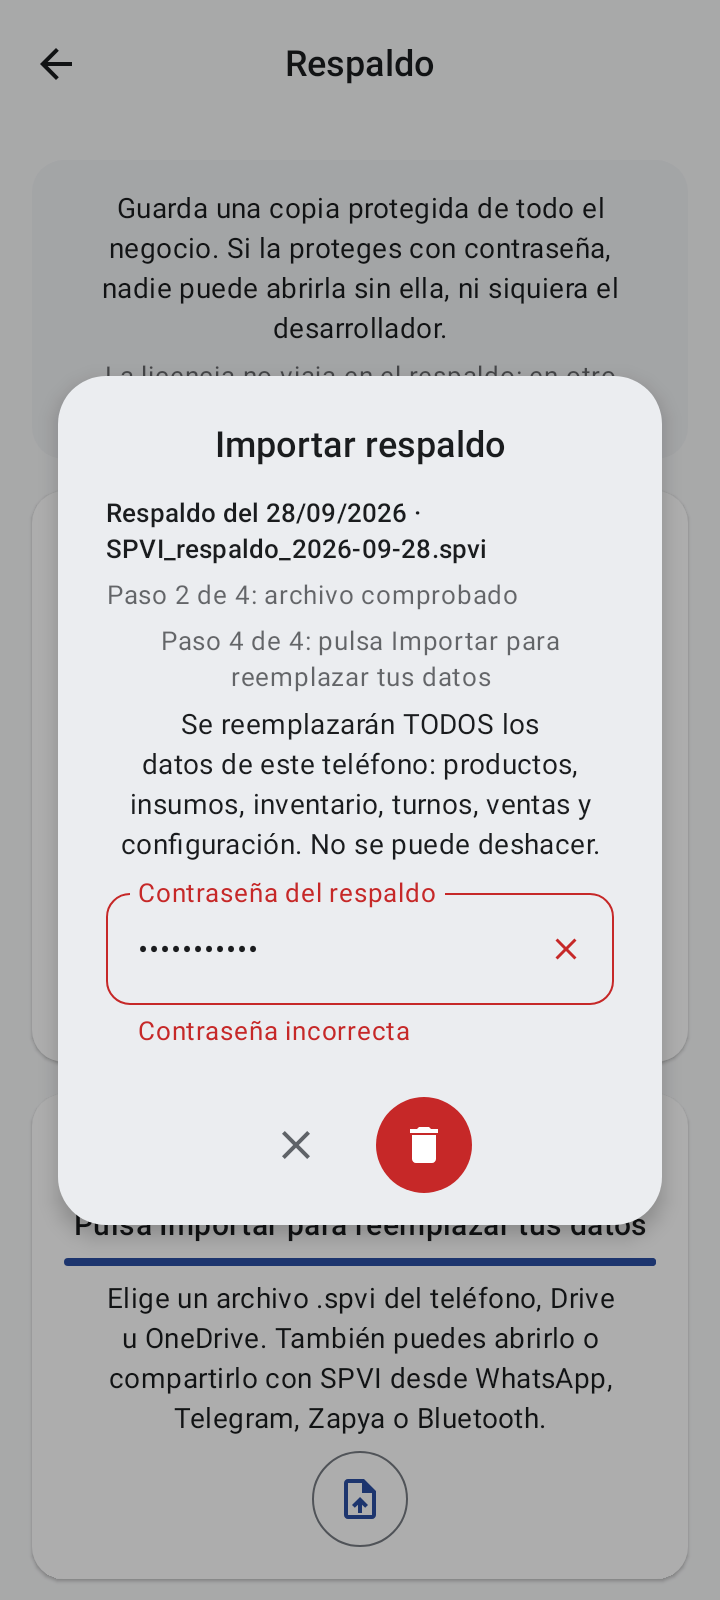
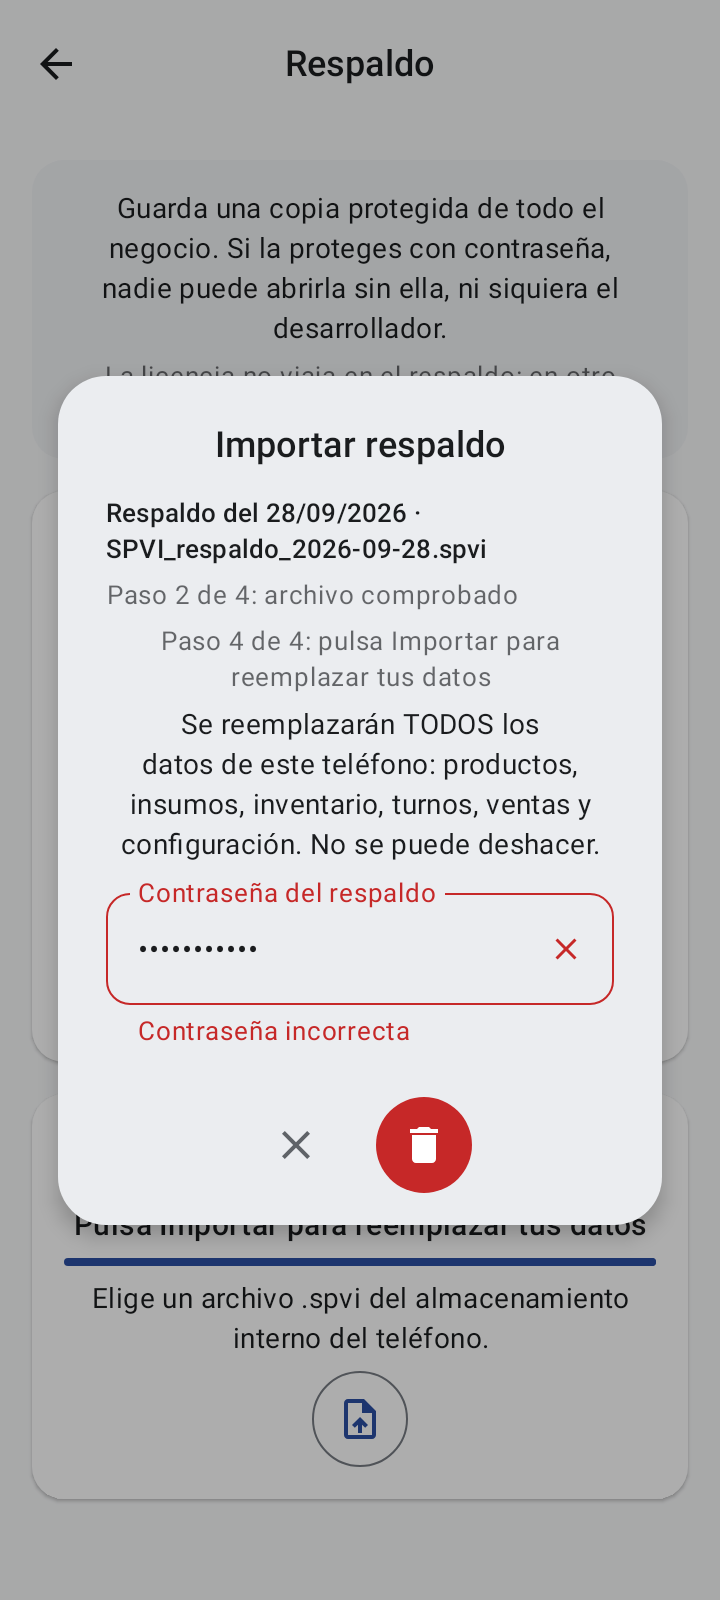
w

Changed region(s): [[0.1528, 0.7812, 0.8556, 0.9688]]

diff --git a/app/src/androidTest/kotlin/cu/spvi/app/AjustesPantallasUiTest.kt b/app/src/androidTest/kotlin/cu/spvi/app/AjustesPantallasUiTest.kt
@@ -108,7 +108,7 @@ class AjustesPantallasUiTest {
     // ---------- Respaldo
 
     private fun accionesRespaldo(onGuardar: () -> Unit = {}, onImportar: () -> Unit = {}) = AccionesRespaldo(
-        onEditarExport = {}, onGuardar = onGuardar, onCompartir = {}, onElegirArchivo = onImportar,
+        onEditarExport = {}, onGuardar = onGuardar, onElegirArchivo = onImportar,
         onContrasenaImport = {}, onConfirmarImport = {}, onCancelarImport = {},
     )
 
@@ -146,7 +146,7 @@ class AjustesPantallasUiTest {
                         resultado = ResultadoRespaldo(true, "Respaldo guardado", "SPVI_respaldo_2026-09-30.spvi"),
                     ),
                     {}, AccionesRespaldo(
-                        onEditarExport = {}, onGuardar = {}, onCompartir = {}, onElegirArchivo = {},
+                        onEditarExport = {}, onGuardar = {}, onElegirArchivo = {},
                         onContrasenaImport = {}, onConfirmarImport = {}, onCancelarImport = {}, onCerrarResultado = { cerrar++ },
                     ),
                 )
@@ -180,7 +180,7 @@ class AjustesPantallasUiTest {
                 RespaldoContent(
                     RespaldoUiState(exportado = PasosRespaldo.textoHecho("SPVI_respaldo_2026-09-30.spvi", enviado = false)),
                     {}, AccionesRespaldo(
-                        onEditarExport = {}, onGuardar = {}, onCompartir = {}, onElegirArchivo = {},
+                        onEditarExport = {}, onGuardar = {}, onElegirArchivo = {},
                         onContrasenaImport = {}, onConfirmarImport = {}, onCancelarImport = {}, onNuevoRespaldo = { otro++ },
                     ),
                 )
@@ -199,7 +199,7 @@ class AjustesPantallasUiTest {
             SpviTheme(darkTheme = false) {
                 RespaldoContent(
                     RespaldoUiState(), {}, AccionesRespaldo(
-                        onEditarExport = {}, onGuardar = {}, onCompartir = {}, onElegirArchivo = {},
+                        onEditarExport = {}, onGuardar = {}, onElegirArchivo = {},
                         onContrasenaImport = {}, onConfirmarImport = {}, onCancelarImport = {},
                     ),
                 )

diff --git a/app/src/test/kotlin/cu/spvi/app/root/RootViewModelTest.kt b/app/src/test/kotlin/cu/spvi/app/root/RootViewModelTest.kt
@@ -82,24 +82,22 @@ class RootViewModelTest {
     }
 }
 
-/** Archivo recibido de otra app (Prompt 14): MainScaffold navega a Respaldo mientras esté pendiente. */
+/** La licencia compartida queda pendiente hasta activarse (los .spvi ya no entran por aquí). */
 @OptIn(ExperimentalCoroutinesApi::class)
 class EntradaViewModelTest {
     @Before fun antes() = Dispatchers.setMain(UnconfinedTestDispatcher())
     @After fun despues() = Dispatchers.resetMain()
 
-    @Test fun soloLosArchivosQuedanPendientesHastaConsumirse() = runTest {
+    @Test fun soloLaLicenciaQuedaPendienteHastaTomarse() = runTest {
         val entrada = EntradaCompartida()
         val vm = EntradaViewModel(entrada)
-        assertFalse(vm.archivoPendiente.value)
+        assertFalse(vm.licenciaPendiente.value)
         entrada.publicar(Entrada.Texto("Nro. Transaccion: BR601ADLM8997"))
-        assertFalse(vm.archivoPendiente.value) // el SMS es para la venta, no para Respaldo
-        val archivo = Entrada.Archivo("file:///cache/compartir/recibido_1.spvi", "SPVI_completo.spvi")
-        entrada.publicar(archivo)
-        assertTrue(vm.archivoPendiente.value)
-        assertTrue(entrada.consumir(archivo))
-        assertFalse(vm.archivoPendiente.value)
-        assertFalse(entrada.consumir(archivo)) // una sola vez
+        assertFalse(vm.licenciaPendiente.value) // el SMS es para la venta, no una licencia
+        entrada.publicar(Entrada.Texto("SPVI2:codigo-de-licencia"))
+        assertTrue(vm.licenciaPendiente.value)
+        assertEquals("SPVI2:codigo-de-licencia", vm.tomarLicencia())
+        assertFalse(vm.licenciaPendiente.value)
         vm.viewModelScope.cancel()
     }
 }

diff --git a/app/src/test/kotlin/cu/spvi/app/respaldo/RespaldoTest.kt b/app/src/test/kotlin/cu/spvi/app/respaldo/RespaldoTest.kt
@@ -6,8 +6,6 @@ import cu.spvi.app.PerfilRepo
 import cu.spvi.app.PreciosRepo
 import cu.spvi.app.ProdRepo
 import cu.spvi.app.RelojFijo
-import cu.spvi.app.common.Entrada
-import cu.spvi.app.common.EntradaCompartida
 import cu.spvi.core.result.AppError
 import cu.spvi.core.result.AppResult
 import cu.spvi.domain.repository.EtapaRespaldo
@@ -258,16 +256,5 @@ class RespaldoTest {
         assertEquals("", repo.importadoSinContrasena)
         assertNull(vm.state.value.importacion)
         assertTrue(vm.state.value.resultado!!.exito)
-    }
-
-    @Test fun archivoRecibidoDeOtraAppAbreLaImportacionYSeConsume() = runTest {
-        archivos.origenes["file:///cache/compartir/recibido_1.spvi"] = "CIFRADO".toByteArray()
-        entrada.publicar(Entrada.Archivo("file:///cache/compartir/recibido_1.spvi", "SPVI_completo_2026-09-29.spvi"))
-        val vm = vm()
-        assertEquals("SPVI_completo_2026-09-29.spvi", vm.state.value.importacion!!.nombre)
-        assertNull(entrada.entrada.value) // consumido: no se reabre al volver
-        // El texto compartido (SMS) no es para Respaldo: se deja a la venta.
-        entrada.publicar(Entrada.Texto("Nro. Transaccion: BR601ADLM8997"))
-        assertNotNull(entrada.entrada.value)
     }
 }

diff --git a/app/src/test/kotlin/cu/spvi/app/capturas/AjustesCapturas.kt b/app/src/test/kotlin/cu/spvi/app/capturas/AjustesCapturas.kt
@@ -155,7 +155,7 @@ class AjustesCapturas {
 
     // ---------- Respaldo ----------
     private val accionesRespaldo = AccionesRespaldo(
-        onEditarExport = {}, onGuardar = {}, onCompartir = {}, onElegirArchivo = {}, onContrasenaImport = {}, onConfirmarImport = {}, onCancelarImport = {},
+        onEditarExport = {}, onGuardar = {}, onElegirArchivo = {}, onContrasenaImport = {}, onConfirmarImport = {}, onCancelarImport = {},
     )
     private fun respaldo(id: String, s: RespaldoUiState) = rule.capturar(id) { RespaldoContent(s, {}, accionesRespaldo, zona = Captura.ZONA) }
     private val info = InfoRespaldo(3, Instant.parse("2026-09-28T15:00:00Z"), 48_213)

diff --git a/app/src/androidTest/kotlin/cu/spvi/app/integracion/EntornoIntegracion.kt b/app/src/androidTest/kotlin/cu/spvi/app/integracion/EntornoIntegracion.kt
@@ -135,7 +135,7 @@ class EntornoIntegracion(licencia: LicenseState = LicenseState.Trial(5)) {
 
     fun respaldoVm() = RespaldoViewModel(
         ExportarRespaldo(respaldo), ImportarRespaldo(respaldo), respaldo,
-        archivos, entrada, clock,
+        archivos, clock,
     )
 
     fun licenciaVm() = LicenciaViewModel(

diff --git a/app/src/main/kotlin/cu/spvi/app/common/Archivos.kt b/app/src/main/kotlin/cu/spvi/app/common/Archivos.kt
@@ -5,6 +5,7 @@ import android.content.ClipData
 import android.content.Context
 import android.content.Intent
 import android.net.Uri
+import androidx.core.content.FileProvider
 import dagger.Binds
 import dagger.Module
 import dagger.hilt.InstallIn

diff --git a/SECURITY.md b/SECURITY.md
@@ -47,10 +47,10 @@ Cómo protege SPVI los datos del negocio y la licencia en el teléfono. Describe
 | **Permisos y accesos especiales** | `CAMERA`: solo mientras la cámara está encendida (QR de vinculación o foto del producto), pedido con explicación previa. `INTERNET`: solo para la consulta semanal de actualizaciones y revocaciones en GitHub, y la sincronización en la red local. `POST_NOTIFICATIONS` (Android 13+): solo para el aviso fijo «Turno abierto desde las HH:MM», sin importes ni datos del cliente, y se pide al abrir un turno. Si se niega, no pasa nada. No hay `RECEIVE_BOOT_COMPLETED`: el aviso no se restaura tras reiniciar. `FOREGROUND_SERVICE`, `FOREGROUND_SERVICE_CONNECTED_DEVICE` y `CHANGE_NETWORK_STATE` (0.19.2, normales, sin diálogo): solo para el servicio en primer plano `connectedDevice` de la app principal con secundarias, mientras está a la vista o hay algún turno abierto. `CHANGE_NETWORK_STATE` es requisito de Android 14 para ese tipo; SPVI no cambia ninguna red. `ACCESS_NETWORK_STATE` y los servicios de telemetría `datatransport` que añade ML Kit se **eliminan** del manifiesto. Captura SMS opcional: no declara `READ_SMS`; requiere que el usuario habilite manualmente el acceso especial «Acceso a notificaciones», que da al servicio acceso amplio a notificaciones mientras esté autorizado. |
 | **Qué sale a internet** | Nada de datos del negocio: solo la consulta de actualizaciones y revocaciones en GitHub (HTTPS). User-Agent `SPVI/0.27 (Android)`, sin datos del usuario. Sin caché, sin cookies, sin reintentos silenciosos, sin seguir redirecciones HTTPS→HTTP |
 | **Copia automática de Android** | `allowBackup=false`, `fullBackupContent=false` y `data_extraction_rules` que excluyen todo de la nube y de la transferencia entre dispositivos |
-| **Componentes exportados** | `MainActivity`: launcher, `SEND text/plain` (SMS compartido) y `SEND`/`VIEW` `application/octet-stream` (respaldo, solo `content://`). `CapturaSmsPagoService` también se declara `exported` para que Android pueda enlazarlo como `NotificationListenerService`, pero solo con `android.permission.BIND_NOTIFICATION_LISTENER_SERVICE`; otras apps no pueden enlazarse con ese permiso de nivel de sistema. Solo recibe notificaciones si el usuario activa el acceso especial. |
-| **Archivos recibidos** | Se copian a `cacheDir/compartir` con un tope de 128 MB y se borran a las 24 h. Nunca se importan solos: siempre piden confirmación (y la contraseña, si el archivo la tiene) |
+| **Componentes exportados** | `MainActivity`: launcher y `SEND text/plain` (SMS compartido). `CapturaSmsPagoService` también se declara `exported` para que Android pueda enlazarlo como `NotificationListenerService`, pero solo con `android.permission.BIND_NOTIFICATION_LISTENER_SERVICE`; otras apps no pueden enlazarse con ese permiso de nivel de sistema. Solo recibe notificaciones si el usuario activa el acceso especial. |
+| **Archivos recibidos** | El `.spvi` no se recibe de otras apps ni se abre desde fuera: solo entra con «Elegir archivo» del gestor del dispositivo desde Respaldo. Nunca se importa solo: siempre pide contraseña (si la tiene) y confirmación |
 | **FileProvider** | No exportado; solo expone `cache/compartir/` (permiso temporal de lectura para la app elegida) y, desde la 0.27.0, `cache/fotos/`: el archivo temporal donde la app de cámara escribe la foto de Nuevo producto/servicio (`TakePicture`, permiso temporal de escritura solo para esa URI). La foto se copia reducida (lado ≤ 1024 px, JPEG 85) a `filesDir/fotos` y la carpeta temporal se vacía. Nada de base de datos, preferencias ni las fotos guardadas |
-| **Almacenamiento externo** | Guardar y abrir pasa por el selector del sistema (SAF). Única excepción (0.26.0): el registro cifrado de la prueba (`Pictures/SPVI/sys_<huella>.png` y `.sys_<huella>.bin` en Download y Documents, ver FORMATOS.md §2.7). El permiso de fotos se pide una sola vez, recién instalada; si se niega, la prueba sigue funcionando (solo no se detecta una instalación anterior). La app no lee ninguna otra imagen |
+| **Almacenamiento externo** | Guardar y abrir pasa por el selector del sistema (SAF). El `.spvi` además va enraizado en Descargas internas y limitado a proveedores locales (sin nubes ni otras apps). Única excepción (0.26.0): el registro cifrado de la prueba (`Pictures/SPVI/sys_<huella>.png` y `.sys_<huella>.bin` en Download y Documents, ver FORMATOS.md §2.7). El permiso de fotos se pide una sola vez, recién instalada; si se niega, la prueba sigue funcionando (solo no se detecta una instalación anterior). La app no lee ninguna otra imagen |
 | **Visibilidad de paquetes** | Sin `<queries>`: SPVI no consulta ni abre otras apps de pago (Enzona se quitó en la 0.13.0 y el botón «Abrir Transfermóvil» en la 0.17.0) |
 | **Portapapeles** | Solo se lee al tocar «Pegar» / «Pegar SMS», nunca en segundo plano |
 | **Capturas y Recientes** | `FLAG_SECURE` en Perfil, Licencia, Pago electrónico, Respaldo, Migrar, el paso «Tus datos» del asistente, los pasos QR (tarjeta del vendedor, desde la 0.14.0) y de datos del cliente en Venta y Registros mientras se ven transferencias |

diff --git a/UI_UX_IX.md b/UI_UX_IX.md
@@ -64,7 +64,7 @@ Módulo `:designsystem`. **Regla única: ninguna pantalla define colores, tamañ
 | **Vibración breve** al leer un código, al terminar una venta y con cada snackbar; respeta el ajuste del sistema | Escáner, Venta, todos los mensajes |
 | **Asistentes en la misma pantalla** con `SpviStepper` («Paso N de M: título» + barra): Licencia 3 pasos; Respaldo Exportar 3 (Contraseña → Destino → Respaldo listo) e Importar 4 (Elegir → Comprobar → Contraseña → Confirmar); Onboarding; Migrar 4 (la cabecera indica el paso en curso; las 4 tarjetas siguen visibles) | Licencia, Respaldo, Onboarding, Migrar |
 | **Progreso de la operación por etapas** («Etapa 1 de 3 · Reuniendo los datos…»), con las demás acciones deshabilitadas. «Etapa», no «Paso», para no confundirlo con el asistente | Respaldo |
-| **Pegar solo al tocar «Pegar»**; compartir a SPVI desde otras apps (SMS, `.spvi`) | Venta, Licencia, Respaldo |
+| **Pegar solo al tocar «Pegar»**; compartir a SPVI desde otras apps (SMS, licencia) | Venta, Licencia |
 | **Eventos de un solo uso** (snackbar, abrir otra app) separados del estado | Todos los ViewModels |
 | **Estado que sobrevive** a girar la pantalla y a la muerte del proceso (`SavedStateHandle`) | Carrito y paso de la venta, período de Inicio, pestaña/búsqueda/filtros de Registros |
 
@@ -96,7 +96,7 @@ Módulo `:designsystem`. **Regla única: ninguna pantalla define colores, tamañ
 | Perfil | Marcador de posición | Nombre, apellidos, CI, teléfonos y tarjetas con validación; tarjetas enmascaradas | Prompt 12 |
 | Exportar como imagen | Imagen = tarjetas de 6 productos | Imagen = lista de precios (25 filas por imagen); Tarjetas aparte | Prompt 14 |
 | Registros | Solo compartir texto | Además, Exportar PDF y Excel de lo que se ve | Prompt 14 |
-| Importar respaldo | Solo desde el selector de archivos | También con Compartir y Abrir con → SPVI | Prompt 14 |
+| Importar respaldo | Solo «Elegir archivo» del gestor del dispositivo (almacenamiento interno) | Antes también con Compartir y Abrir con → SPVI | Prompt 14 |
 | Respaldo dañado | «Contraseña incorrecta o archivo alterado» | Se distingue archivo incompleto, dañado o de otra app **antes** de pedir la contraseña; progreso por pasos | Prompt 14 |
 | Clave del emisor, tasas de cambio, botón Enzona, caducidad por código | Pantallas o datos sin uso real | Eliminados; respaldo siempre completo | Prompt 17 |
 | Iconos | `material-icons-extended` (≈ 2 300 iconos) | `SpviIcons` propios, solo los usados | Prompt 17 |

diff --git a/docs/HISTORIAL_DESARROLLO.md b/docs/HISTORIAL_DESARROLLO.md
@@ -1496,6 +1496,13 @@ Primera vez que el repositorio se verifica solo: GitHub Actions ejecuta Gradle r
 - **Corrección (`app/.../vinculacion/VinculacionViewModel.kt`):** la regla se evalúa con los valores reales (`base.first()`, suspendida); `pedirSecundaria()` espera dentro de una corrutina. Sin cambios de firmas ni de comportamiento visible salvo el bug. `spviTests` verde (859/859), APK reinstalado en el Redmi con los datos intactos.
 - Para probarlo en un teléfono hace falta borrar sus datos (el tipo queda fijado al instalarse): solo con respaldo previo, o mejor en el teléfono del empleado.
 
+## Cambio 2026-10-11 (dueño): respaldo .spvi solo en almacenamiento interno
+
+- **Regla nueva:** exportar e importar el `.spvi` solo hacia y desde el almacenamiento interno; la ubicación la elige el usuario con el gestor de archivos del dispositivo.
+- **Quitado:** botón «Enviar a otra app» (WhatsApp, Telegram, Drive…) y la recepción de `.spvi` compartidos o abiertos desde otras apps (`EventoRespaldo.Compartir`, `RespaldoViewModel.compartir()`, consumo de `Entrada.Archivo`, redirección de MainScaffold, `ArchivosApp.copiarRecibido`, filtros SEND/VIEW de `octet-stream` en el manifiesto y el string `importar_respaldo`). La licencia por texto compartido y el SMS de PAGOxMOVIL no cambian.
+- **Queda:** «Guardar en el teléfono» y «Elegir archivo», que abren el gestor del dispositivo enraizado en Descargas internas y limitado a proveedores locales (`EXTRA_INITIAL_URI` + `EXTRA_LOCAL_ONLY`, sin nubes). PDF/Excel/imágenes se siguen enviando como antes.
+- Verificación: `spviTests` 856/856, `spviCheck` verde (`spviPermisos` OK con el manifiesto recortado), instrumentados compilan, `verifyRoborazziDebug` verde (referencias 09* regeneradas), APK instalado. Docs: FORMATOS, SECURITY, UI_UX_IX e historial.
+
 ### Principal web independiente — ampliación en desarrollo
 
 - Incorporados modelo canónico Android, servidor LAN principal, empleados, permisos, fondos,

diff --git a/FORMATOS.md b/FORMATOS.md
@@ -106,7 +106,7 @@ El respaldo es siempre **completo**. Desde la 0.13.0 ya no existe «Solo configu
 
 1. *Reuniendo los datos…*: lectura en una transacción.
 2. *Cifrando con tu contraseña…*: JSON → gzip → AES-GCM. Al terminar, el JSON en claro se sobrescribe con ceros.
-3. *Guardando el archivo…*: va al destino elegido con el selector del sistema (**Guardar en el teléfono**) o a `cacheDir/compartir` para **Enviar a otra app**. Lo hace `ExportadorArchivos`, compartido con el resto de exportaciones.
+3. *Guardando el archivo…*: va al destino elegido con el gestor de archivos del dispositivo (**Guardar en el teléfono**, enraizado en Descargas internas, solo proveedores locales). Lo hace `ExportadorArchivos`, compartido con el resto de exportaciones.
 
 Nombre: `SPVI_respaldo_<fecha>.spvi`.
 
@@ -136,7 +136,7 @@ Cualquier error deja los datos como estaban.
 Tras importar un respaldo v4 con bloque `licencia` en un teléfono sin licencia instalada, Licencia muestra el ID ya escrito para **Recuperar** (MANUAL §9). Exportar un respaldo pone a cero el recordatorio mensual de Inicio.
 | Contraseña incorrecta | «Contraseña incorrecta» (el diálogo queda abierto para reintentar) |
 
-**Cómo llega el archivo:** «Importar» → selector del sistema; **Compartir** a SPVI desde otra app; o **Abrir con → SPVI**. En los dos últimos casos se copia a `cacheDir/compartir` (solo `content://`, máx. 128 MB, se borra a las 24 h) y siempre se piden contraseña y confirmación.
+**Cómo llega el archivo:** «Importar» → «Elegir archivo» abre el gestor de archivos del dispositivo (enraizado en Descargas internas, solo proveedores locales). El `.spvi` no se envía a otras apps ni se recibe de ellas: siempre se piden contraseña y confirmación.
 
 ---
 
